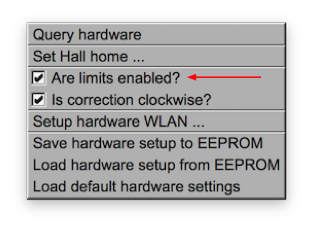
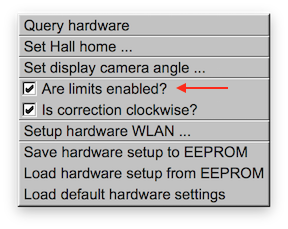
Updated frontend help_interface to include setting up the display camera angle.

diff --git a/frontend/derot/help/help_interface/help_interface.html b/frontend/derot/help/help_interface/help_interface.html
@@ -41,6 +41,9 @@ June 2015
   <LI> <a href="#Home">Setting up HOME</A>
   <LI> <a href="#ArbitraryAngle">Rotating to an arbitrary angle</A>
   <LI> <a href="#HomePosition">Setting up the HOME position</A>
+  <UL>
+    <LI><a href="#DisplayAngle">Setting up the display angle</A>
+  </UL>  
   <LI> <a href="#SettingLimits">Setting the CW and CCW limits</A>
   <LI> <a href="#Derotation">Derotation</A>
   <UL>
@@ -330,9 +333,34 @@ and the camera will rotate to this new HOME.
 <center>
 <img src="pics/new_home.png">
 </center>
+
+<A NAME="DisplayAngle"></A>
+<H2>Setting up the display angle</H2>
+
+The display angle shown on the frontend is probably not the one that
+you have set up in "real life". You set up the display angle of the
+camera by choosing
+<center>
+  <img src="pics/setup_display_angle.png">  
+</center>
+and filling in the angle in degrees. For example to 90 degrees
+<center>
+  <img src="pics/fillin_display_angle.png">  
+</center>
+After you do this the displayed camera is rotated by 90 degrees
+<center>
+  <img src="pics/rotated_90.png">  
+</center>
+
+
 <HR>
 <A NAME="SettingLimits"></A>
 <H1>Setting the CW and CCW limits</H1>
+
+<b>It is important to check that the camera does not rotate into any
+obstruction. One thing to check is that the camera does not hit the
+driver connector on the driver board.</b>
+<p>
 
 You can set up the clockwise (CW) and counter clockwise (CCW) limits
 that the camera can rotate to by enabling the limits
